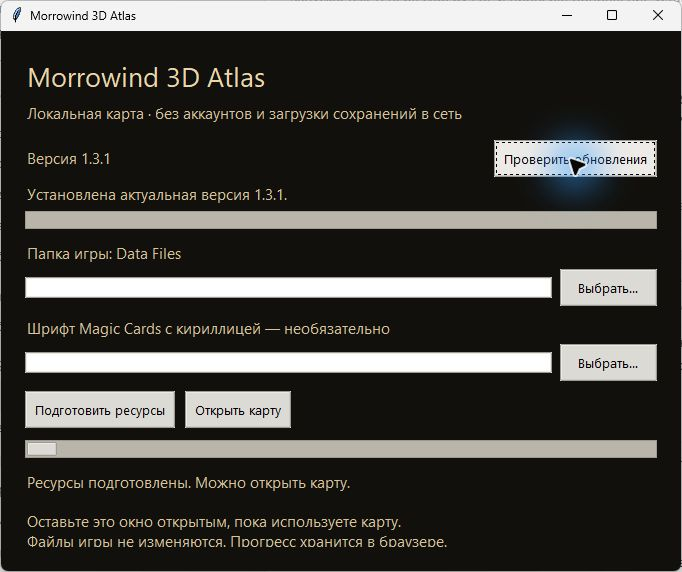
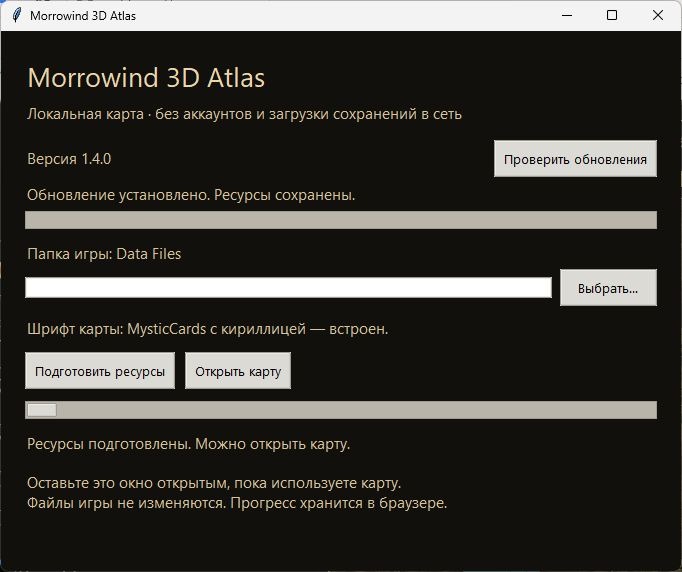
Document verified in-app upgrade to 1.4.0

diff --git a/README.md b/README.md
@@ -43,7 +43,7 @@
 3. Нажмите **«Подготовить ресурсы»** и дождитесь окончания; затем **«Открыть карту»**.
 4. Оставьте окно управления открытым во время работы. Карта работает в обычном браузере по адресу `http://127.0.0.1:8768/`.
 
-![Мастер первого запуска установленной версии](docs/screenshots/launcher.jpg)
+![Окно установленной версии: шрифт уже встроен](docs/screenshots/updates.png)
 
 Игровые модели и текстуры **не включены** в установщик. Шрифт MysticCards поставляется с приложением по свободной лицензии SIL OFL 1.1. Кэш создаётся локально в `%LOCALAPPDATA%/Morrowind3DAtlas/`. При удалении приложения кэш и браузерный прогресс сохраняются. Для переноса отметок между исходной и установленной версиями используйте JSON-экспорт/импорт: разные порты имеют отдельное хранилище браузера.
 
@@ -52,8 +52,6 @@
 ### Обновление из программы
 
 В окне управления рядом с номером версии нажмите **«Проверить обновления»**. Программа обращается к публичному GitHub Release только по этой кнопке. Если версия новее, кнопка изменится на **«Обновить до …»**. Нажмите её и подтвердите установку.
-
-![Кнопка проверки обновлений и текущая версия](docs/screenshots/updates.png)
 
 Установщик скачивается в локальный кэш. Перед запуском проверяются адрес проекта, размер и SHA-256 из метаданных GitHub. Программа закрывается, устанавливает новую версию и запускается снова. Открытая карта может ненадолго потерять связь с сервером; обновите её страницу после перезапуска.
 
@@ -163,6 +161,8 @@ python packaging/build_windows.py
 Для 1.3.1 проверена установка поверх 1.2.0 через помощник обновления, повторный запуск приложения и HTTP-сервера, неизменность активного кэша и файлов подготовленного мира, а также проверка обновлений кнопкой в установленном EXE. Полный экспорт игровых ресурсов для этой проверки не повторялся.
 
 Для 1.4.0 проверены 29 Node-тестов, 15 Python-тестов и чтение 34 классических ESS без изменения исходных файлов. Браузерная проверка включает английский и русский искусственные ESS, OpenMW и сохранность заметок и зачисток после импорта и перезагрузки. Упакованный EXE проверяет наличие встроенного шрифта и всех русских букв. Игровой мир для этого обновления повторно не экспортируется.
+
+Проверен реальный переход с 1.3.1 на 1.4.0 через кнопки «Проверить обновления» и «Обновить до …» в установленной программе. После автоматического перезапуска карта доступна на прежнем адресе, активный кэш не изменился, встроенный TTF и новый парсер раздаются из обновлённого EXE.
 
 ## Лицензии и источники
 

diff --git a/docs/releases/v1.4.0.md b/docs/releases/v1.4.0.md
@@ -10,3 +10,5 @@
 Проверены 29 Node-тестов и 15 Python-тестов, чтение 34 существующих классических ESS без изменения файлов, импорт искусственных английского/русского ESS и OpenMW в браузере и сохранность заметок и зачисток. Шрифт включён с оригинальной лицензией и сведениями об источнике.
 
 Обновление доступно через «Проверить обновления» в установленной версии 1.3.1. Повторно готовить игровой мир не нужно: прежний кэш продолжает работать.
+
+Переход с 1.3.1 на 1.4.0 проверен через кнопку внутри программы, включая скачивание, проверку установщика, установку и автоматический перезапуск. Активный кэш карты сохранился без изменений.
